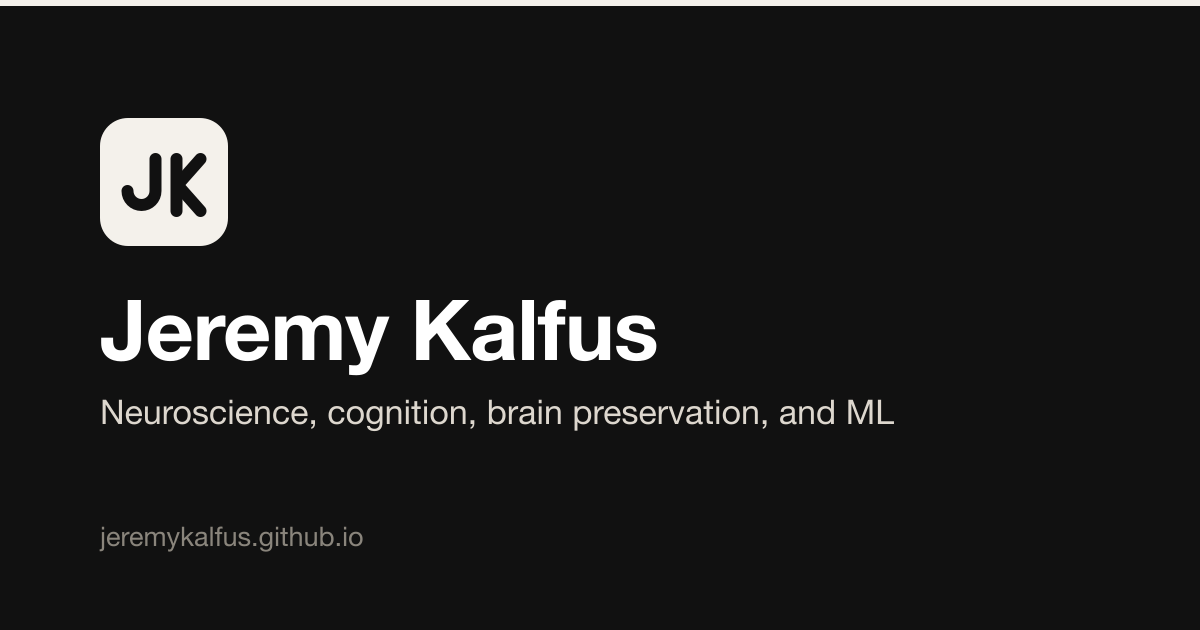
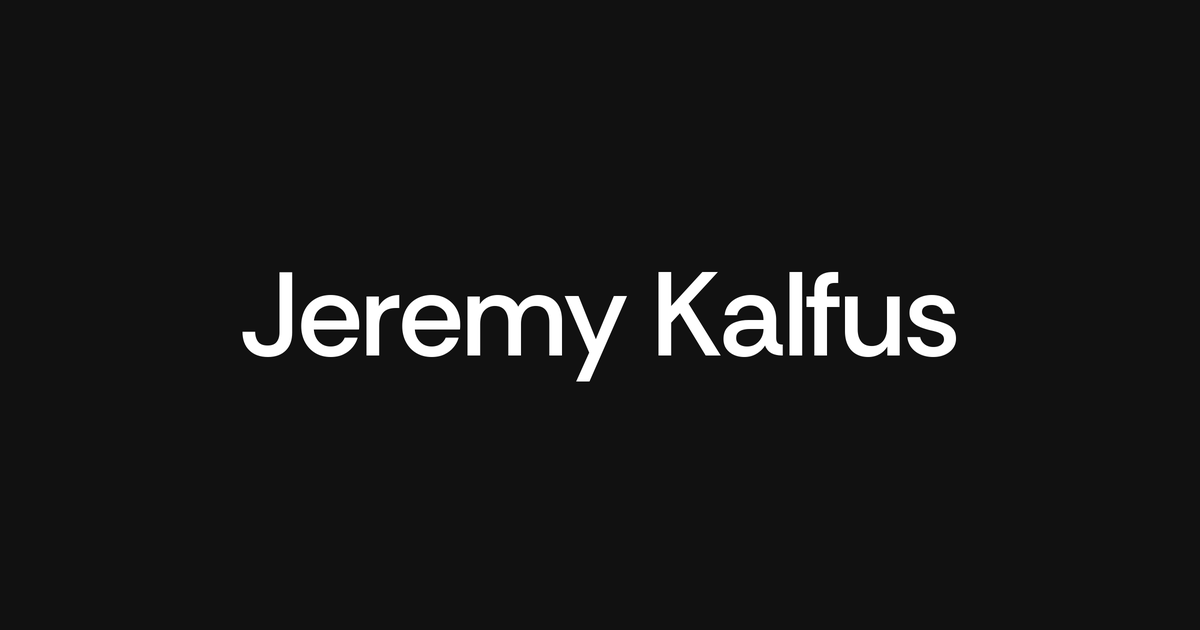
Simplify the link-preview card and fix About-copy typos
The og-image is now just the name, set in Rethink Sans at the same weight
and tracking as the page h1, so the card matches the site rather than
approximating it in Helvetica.

diff --git a/index.html b/index.html
@@ -19,7 +19,7 @@
     <meta property="og:image" content="https://jeremykalfus.github.io/og-image.png">
     <meta property="og:image:width" content="1200">
     <meta property="og:image:height" content="630">
-    <meta property="og:image:alt" content="JK monogram beside the name Jeremy Kalfus">
+    <meta property="og:image:alt" content="The name Jeremy Kalfus on a dark background">
     <meta name="twitter:card" content="summary_large_image">
     <link rel="preconnect" href="https://fonts.googleapis.com">
     <link rel="preconnect" href="https://fonts.gstatic.com" crossorigin>
@@ -140,8 +140,8 @@
             data-view-panel="about"
         >
             <h2>About me</h2>
-            <p>I have always loved learning about all kinds of science and building things. My interests are much too diverse to qualify, but my main obsessions are more often in brain-related things (neuroscience, cognition, neurodegenerative disease, brain preservation) and ML.</p>
-            <p>This website is an ever-changing work-in-progress. It is currently designed in an attempt to balance maximum readability (note large font, spaced lines, Noto Sans) with somewhat aestheitically pleasing UI. Neither this page nor my resume reflects all of the things I know/have done/am working on. If you are interesting in talking, email me at jeremykalfus [at] gmail [dot] com.</p>
+            <p>I have always loved learning about all kinds of science and building things. My interests are much too diverse to quantify, but my main obsessions are more often in brain-related things (neuroscience, cognition, neurodegenerative disease, brain preservation) and ML.</p>
+            <p>This website is an ever-changing work-in-progress. It is currently designed in an attempt to balance maximum readability (note large font, spaced lines, Noto Sans) with somewhat aesthetically pleasing UI. Neither this page nor my resume reflects all of the things I know/have done/am working on. If you are interested in talking, email me at jeremykalfus [at] gmail [dot] com.</p>
         </section>
 
         <div
